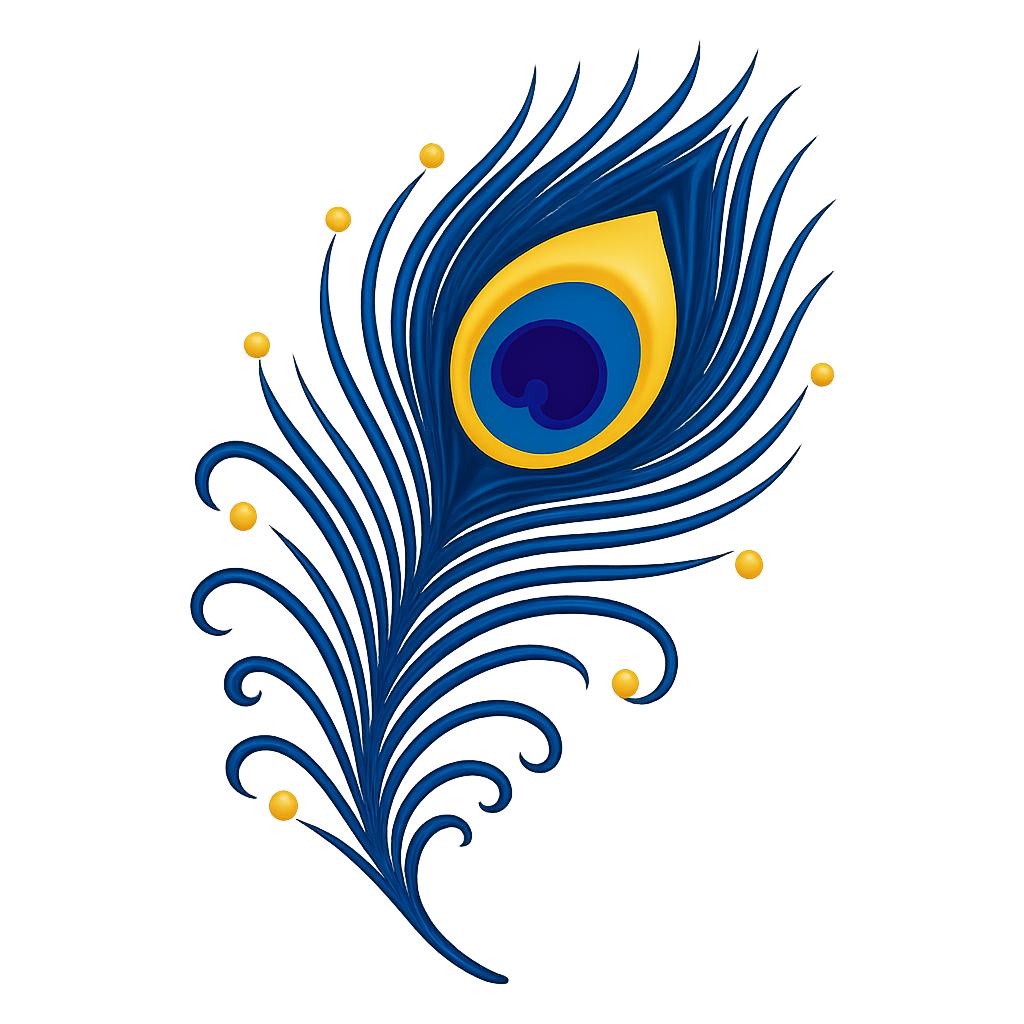
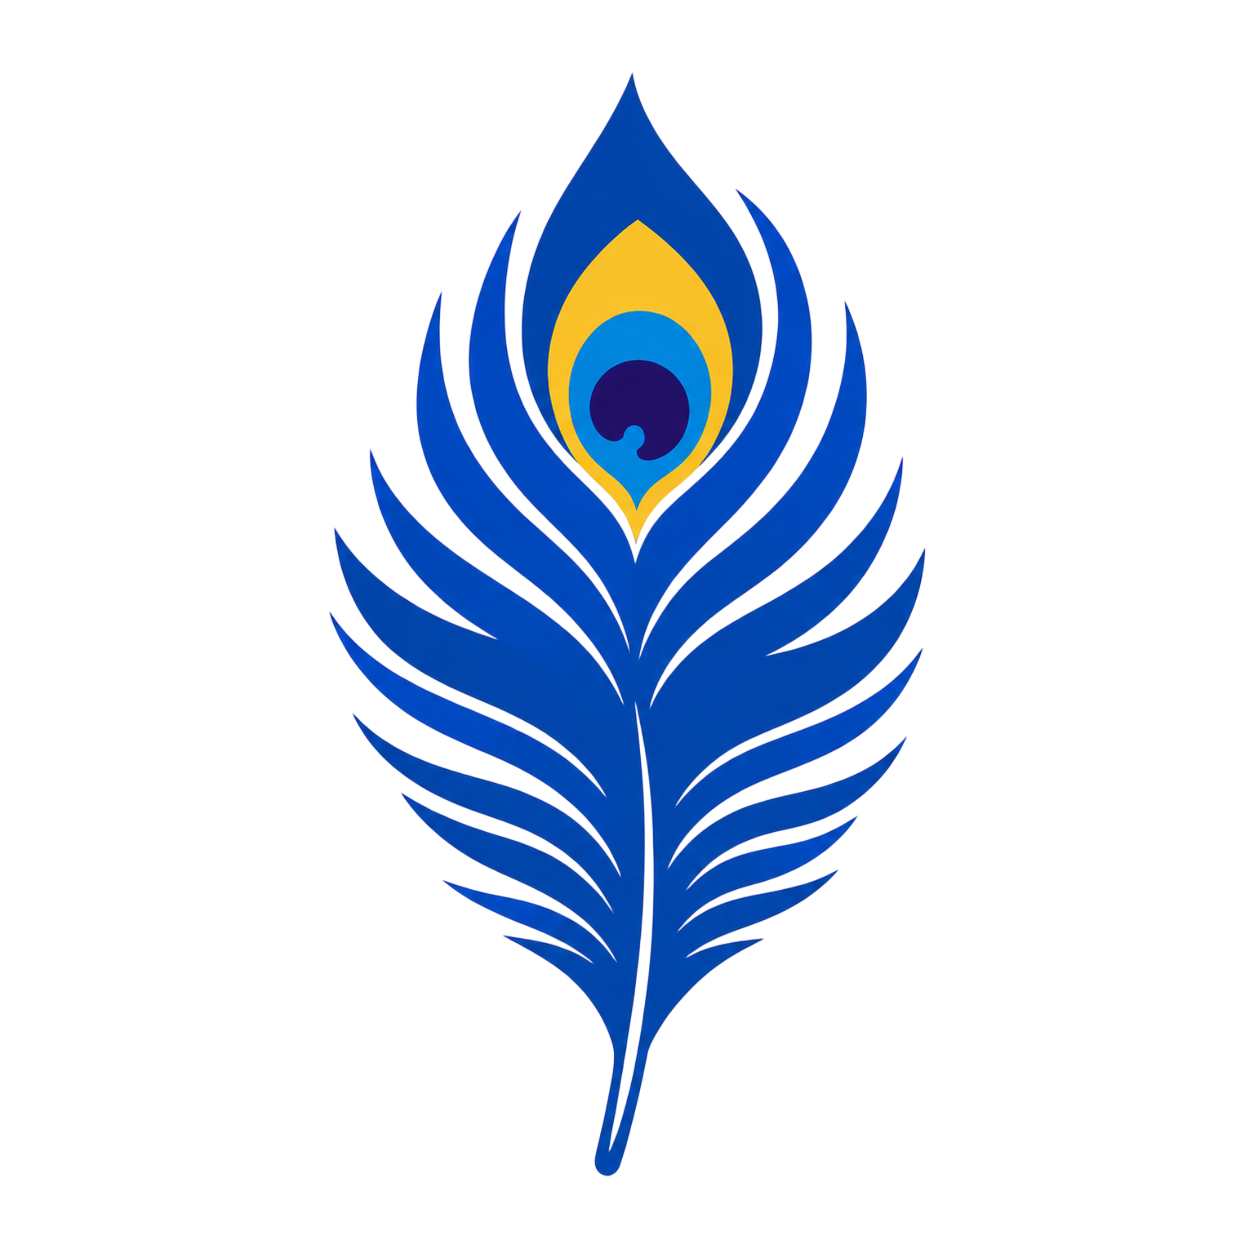
s

Changed region(s): [[0.1875, 0.0625, 0.8125, 0.9688]]

diff --git a/styles.css b/styles.css
@@ -151,22 +151,22 @@ h1 {
 
 .choice-row.combined {
   display: grid;
-  grid-template-columns: repeat(5, minmax(170px, 1fr));
-  gap: 14px;
+  grid-template-columns: repeat(3, minmax(230px, 1fr));
+  grid-template-rows: repeat(3, minmax(128px, auto));
+  gap: 12px 18px;
   justify-content: center;
-  width: min(1120px, 100%);
+  align-items: center;
+  justify-items: stretch;
+  width: min(1080px, 100%);
   margin: 0 auto;
-}
-
-@media (max-width: 1080px) {
-  .choice-row.combined {
-    grid-template-columns: repeat(4, minmax(170px, 1fr));
-  }
 }
 
 @media (max-width: 860px) {
   .choice-row.combined {
-    grid-template-columns: repeat(2, minmax(160px, 1fr));
+    grid-template-columns: repeat(3, minmax(86px, 1fr));
+    grid-template-rows: repeat(3, minmax(104px, auto));
+    gap: 8px;
+    width: min(100%, 560px);
   }
 }
 
@@ -1113,7 +1113,7 @@ h1 {
 }
 
 .response-overlay.combined-mode {
-  width: min(1180px, calc(100vw - 32px));
+  width: min(1140px, calc(100vw - 32px));
 }
 
 .response-overlay.peripheral-chooser {
@@ -1503,15 +1503,83 @@ select option {
   position: relative;
   display: grid;
   grid-template-rows: 1fr auto;
-  gap: 8px;
+  gap: 6px;
   width: 100%;
   min-width: 0;
-  min-height: 176px;
-  padding: 10px;
+  min-height: 132px;
+  padding: 8px;
   border: 2px solid rgba(118, 148, 190, 0.75);
   border-radius: 12px;
   color: #f8fafc;
   background: #010101;
+}
+
+.combined-direction-group {
+  display: flex;
+  flex-wrap: nowrap;
+  gap: 8px;
+  align-items: center;
+  justify-content: center;
+  min-width: 0;
+  min-height: 0;
+}
+
+.combined-direction-group .combined-choice {
+  flex: 1 1 0;
+  max-width: 210px;
+}
+
+.combined-direction-group[data-stack-size="3"],
+.combined-direction-group[data-stack-size="4"],
+.combined-direction-group[data-stack-size="5"],
+.combined-direction-group[data-stack-size="6"],
+.combined-direction-group[data-stack-size="7"],
+.combined-direction-group[data-stack-size="8"],
+.combined-direction-group[data-stack-size="9"],
+.combined-direction-group[data-stack-size="10"] {
+  flex-wrap: wrap;
+}
+
+.combined-direction-group[data-stack-size="2"] .combined-choice,
+.combined-direction-group[data-stack-size="3"] .combined-choice,
+.combined-direction-group[data-stack-size="4"] .combined-choice,
+.combined-direction-group[data-stack-size="5"] .combined-choice,
+.combined-direction-group[data-stack-size="6"] .combined-choice,
+.combined-direction-group[data-stack-size="7"] .combined-choice,
+.combined-direction-group[data-stack-size="8"] .combined-choice,
+.combined-direction-group[data-stack-size="9"] .combined-choice,
+.combined-direction-group[data-stack-size="10"] .combined-choice {
+  max-width: 170px;
+  min-height: 118px;
+}
+
+.combined-direction-group[data-stack-size="2"] .mini-stage,
+.combined-direction-group[data-stack-size="3"] .mini-stage,
+.combined-direction-group[data-stack-size="4"] .mini-stage,
+.combined-direction-group[data-stack-size="5"] .mini-stage,
+.combined-direction-group[data-stack-size="6"] .mini-stage,
+.combined-direction-group[data-stack-size="7"] .mini-stage,
+.combined-direction-group[data-stack-size="8"] .mini-stage,
+.combined-direction-group[data-stack-size="9"] .mini-stage,
+.combined-direction-group[data-stack-size="10"] .mini-stage {
+  min-height: 76px;
+}
+
+@media (max-width: 860px) {
+  .combined-choice {
+    min-height: 126px;
+    padding: 7px;
+  }
+
+  .mini-stage {
+    min-height: 78px;
+  }
+
+  .mini-center {
+    width: 28px;
+    height: 28px;
+    font-size: 1.05rem;
+  }
 }
 
 .combined-choice:focus-visible,
@@ -1524,7 +1592,7 @@ select option {
 .mini-stage {
   position: relative;
   overflow: hidden;
-  min-height: 114px;
+  min-height: 84px;
   border: 1px solid rgba(65, 105, 225, 0.38);
   border-radius: 8px;
   background: #010101;

diff --git a/app.js b/app.js
@@ -604,12 +604,30 @@ function presentCombinedChoices() {
   feedbackText.textContent = "Use number keys for fast reps.";
   choiceRow.innerHTML = "";
   const choices = buildCombinedChoices();
+  const groups = new Map();
+
   choices.forEach((choice, index) => {
+    const primaryDirection = getCombinedChoicePrimaryDirection(choice);
+    const slot = getCombinedChoiceGridSlot(primaryDirection);
+    const groupKey = `${slot.row}:${slot.column}`;
+    let group = groups.get(groupKey);
+
+    if (!group) {
+      group = document.createElement("div");
+      group.className = "combined-direction-group";
+      group.style.gridRow = String(slot.row);
+      group.style.gridColumn = String(slot.column);
+      group.dataset.stackSize = "0";
+      groups.set(groupKey, group);
+      choiceRow.appendChild(group);
+    }
+
     const button = document.createElement("button");
     button.className = "combined-choice";
     button.type = "button";
     const hotkey = index === 9 ? "0" : String(index + 1);
     button.dataset.hotkey = hotkey;
+    button.dataset.direction = primaryDirection.label;
     button.title = `Hotkey ${hotkey}`;
     renderCombinedChoice(button, choice, hotkey);
     button.addEventListener("click", (event) => {
@@ -617,7 +635,8 @@ function presentCombinedChoices() {
       event.stopPropagation();
       submitCombinedChoice(choice);
     });
-    choiceRow.appendChild(button);
+    group.appendChild(button);
+    group.dataset.stackSize = String(Math.min(10, group.children.length));
   });
 }
 
@@ -637,21 +656,69 @@ function buildCombinedChoices() {
   addChoice(state.current.center, correctDirections);
   const correctChoice = choices[0];
   addChoice(state.current.decoy, correctDirections);
-  addChoice(state.current.center, randomDirectionSet(targetCount, correctDirections));
-  addChoice(state.current.decoy, randomDirectionSet(targetCount, correctDirections));
+
+  const distractorDirectionSets = getSpatialDistractorDirectionSets(targetCount, correctDirections);
+  let alternateCenter = 0;
+  while (choices.length < count && distractorDirectionSets.length) {
+    const center = alternateCenter % 2 === 0 ? state.current.center : state.current.decoy;
+    addChoice(center, distractorDirectionSets.shift());
+    alternateCenter += 1;
+  }
+
   while (choices.length < count) {
     const center = Math.random() < 0.55 ? randomItem([state.current.center, state.current.decoy]) : randomItem(emojiPool);
     addChoice(center, randomDirectionSet(targetCount, Math.random() < 0.35 ? correctDirections : []));
   }
-  const wrong = choices.slice(1).slice(0, count - 1);
-  const all = [correctChoice, ...wrong];
-  all.sort((a, b) => {
-    const dirA = a.directions[0] ? a.directions[0].index : 0;
-    const dirB = b.directions[0] ? b.directions[0].index : 0;
-    if (dirA !== dirB) return dirA - dirB;
+
+  return sortCombinedChoicesSpatially([correctChoice, ...choices.filter((choice) => choice !== correctChoice)].slice(0, count));
+}
+
+function getSpatialDistractorDirectionSets(count, correctDirections) {
+  const correctKey = directionSetKey(correctDirections);
+  const directions = getDirections();
+  const seen = new Set([correctKey]);
+
+  if (count <= 1) {
+    return shuffle(directions)
+      .map((direction) => [direction])
+      .filter((set) => directionSetKey(set) !== correctKey);
+  }
+
+  const sets = [];
+  for (let attempt = 0; attempt < 160 && sets.length < directions.length * 2; attempt += 1) {
+    const set = shuffle(directions).slice(0, count);
+    const key = directionSetKey(set);
+    if (seen.has(key)) continue;
+    seen.add(key);
+    sets.push(set);
+  }
+  return sets;
+}
+
+function getCombinedChoicePrimaryDirection(choice) {
+  return choice.directions && choice.directions[0] ? choice.directions[0] : getDirections()[0];
+}
+
+function getCombinedChoiceGridSlot(direction) {
+  const radians = (direction.angle * Math.PI) / 180;
+  return {
+    column: clamp(Math.round(2 + Math.cos(radians)), 1, 3),
+    row: clamp(Math.round(2 - Math.sin(radians)), 1, 3)
+  };
+}
+
+function sortCombinedChoicesSpatially(choices) {
+  return choices.slice().sort((a, b) => {
+    const directionA = getCombinedChoicePrimaryDirection(a);
+    const directionB = getCombinedChoicePrimaryDirection(b);
+    const slotA = getCombinedChoiceGridSlot(directionA);
+    const slotB = getCombinedChoiceGridSlot(directionB);
+
+    if (slotA.row !== slotB.row) return slotA.row - slotB.row;
+    if (slotA.column !== slotB.column) return slotA.column - slotB.column;
+    if (directionA.index !== directionB.index) return directionA.index - directionB.index;
     return (a.center || "").localeCompare(b.center || "");
   });
-  return all;
 }
 
 function randomDirectionSet(count, avoid = []) {

diff --git a/index.html b/index.html
@@ -4,11 +4,14 @@
     <meta charset="UTF-8" />
     <meta name="viewport" content="width=device-width, initial-scale=1.0" />
     <title>UFOV</title>
+    <link rel="icon" type="image/png" sizes="16x16" href="icons/feather.png" />
+    <link rel="icon" type="image/png" sizes="32x32" href="icons/feather.png" />
+    <link rel="icon" type="image/png" sizes="48x48" href="icons/feather.png" />
+    <link rel="apple-touch-icon" sizes="180x180" href="icons/feather.png" />
     <link rel="preconnect" href="https://fonts.googleapis.com" />
     <link rel="preconnect" href="https://fonts.gstatic.com" crossorigin />
     <link href="https://fonts.googleapis.com/css2?family=Inter:wght@400;500;600;700;800;900&display=swap" rel="stylesheet" />
     <link rel="stylesheet" href="styles.css" />
-    <link rel="icon" type="image/png" href="icons/feather.png" />
   </head>
   <body>
     <main class="trainer-app">